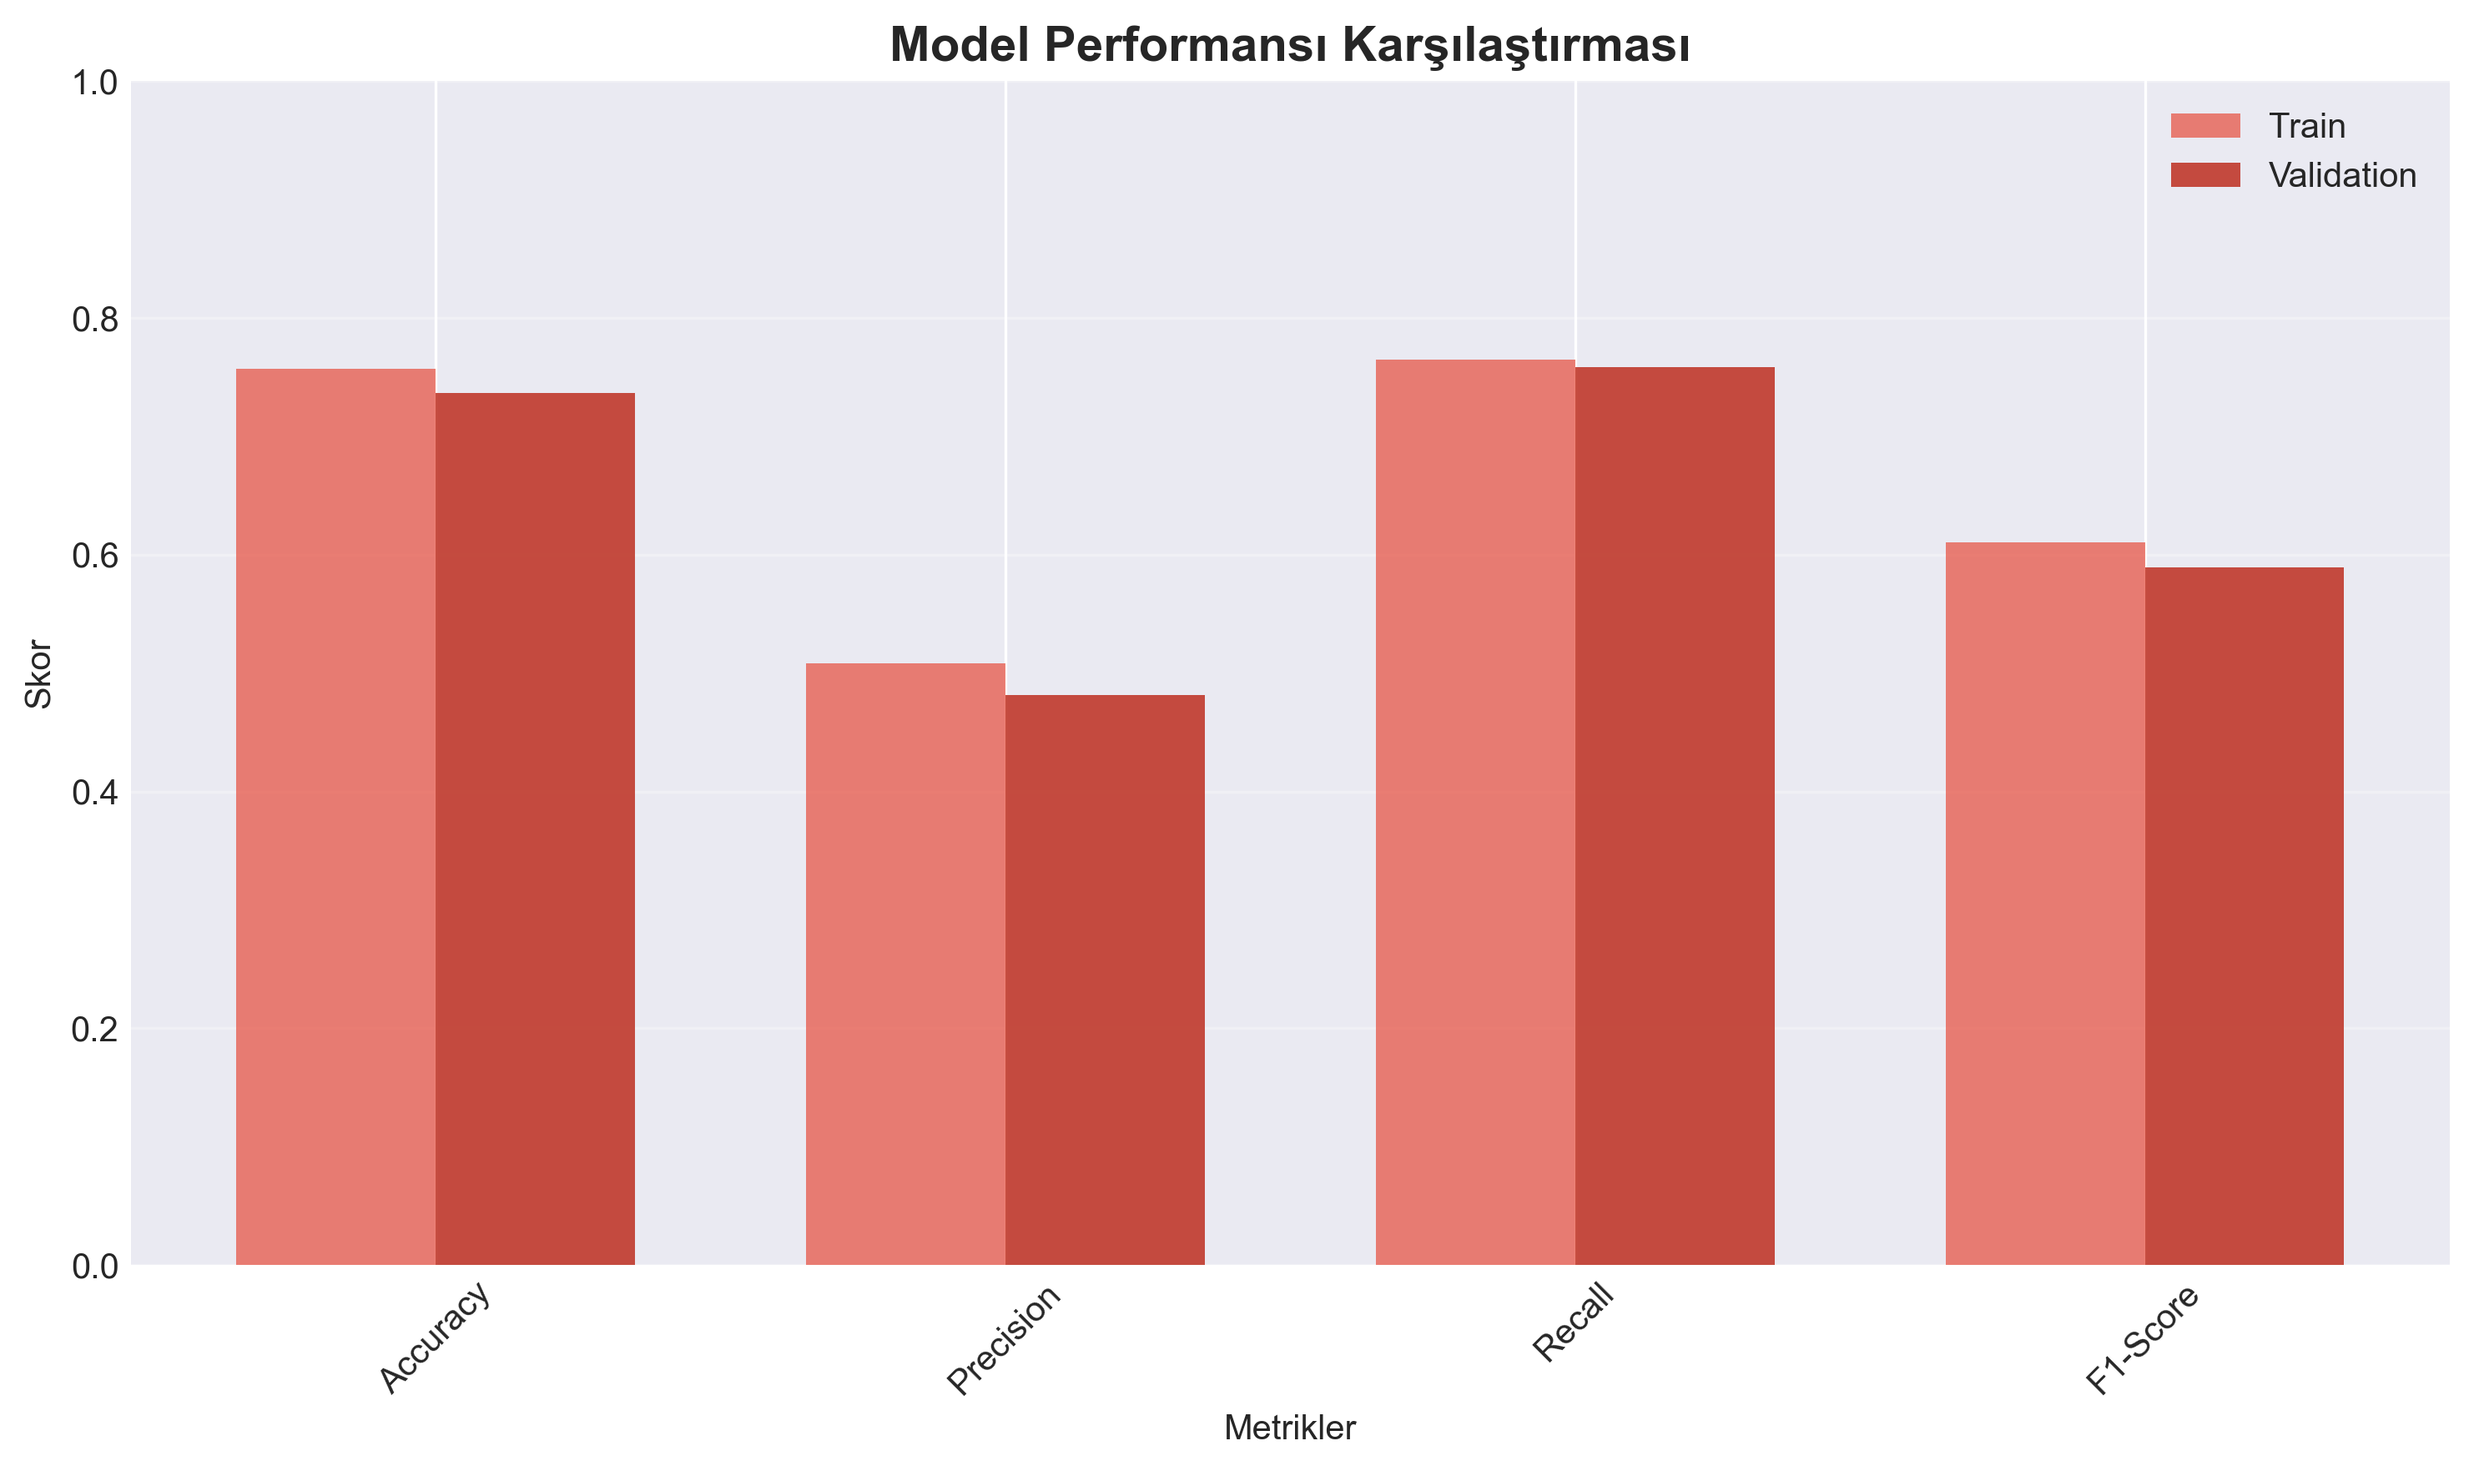
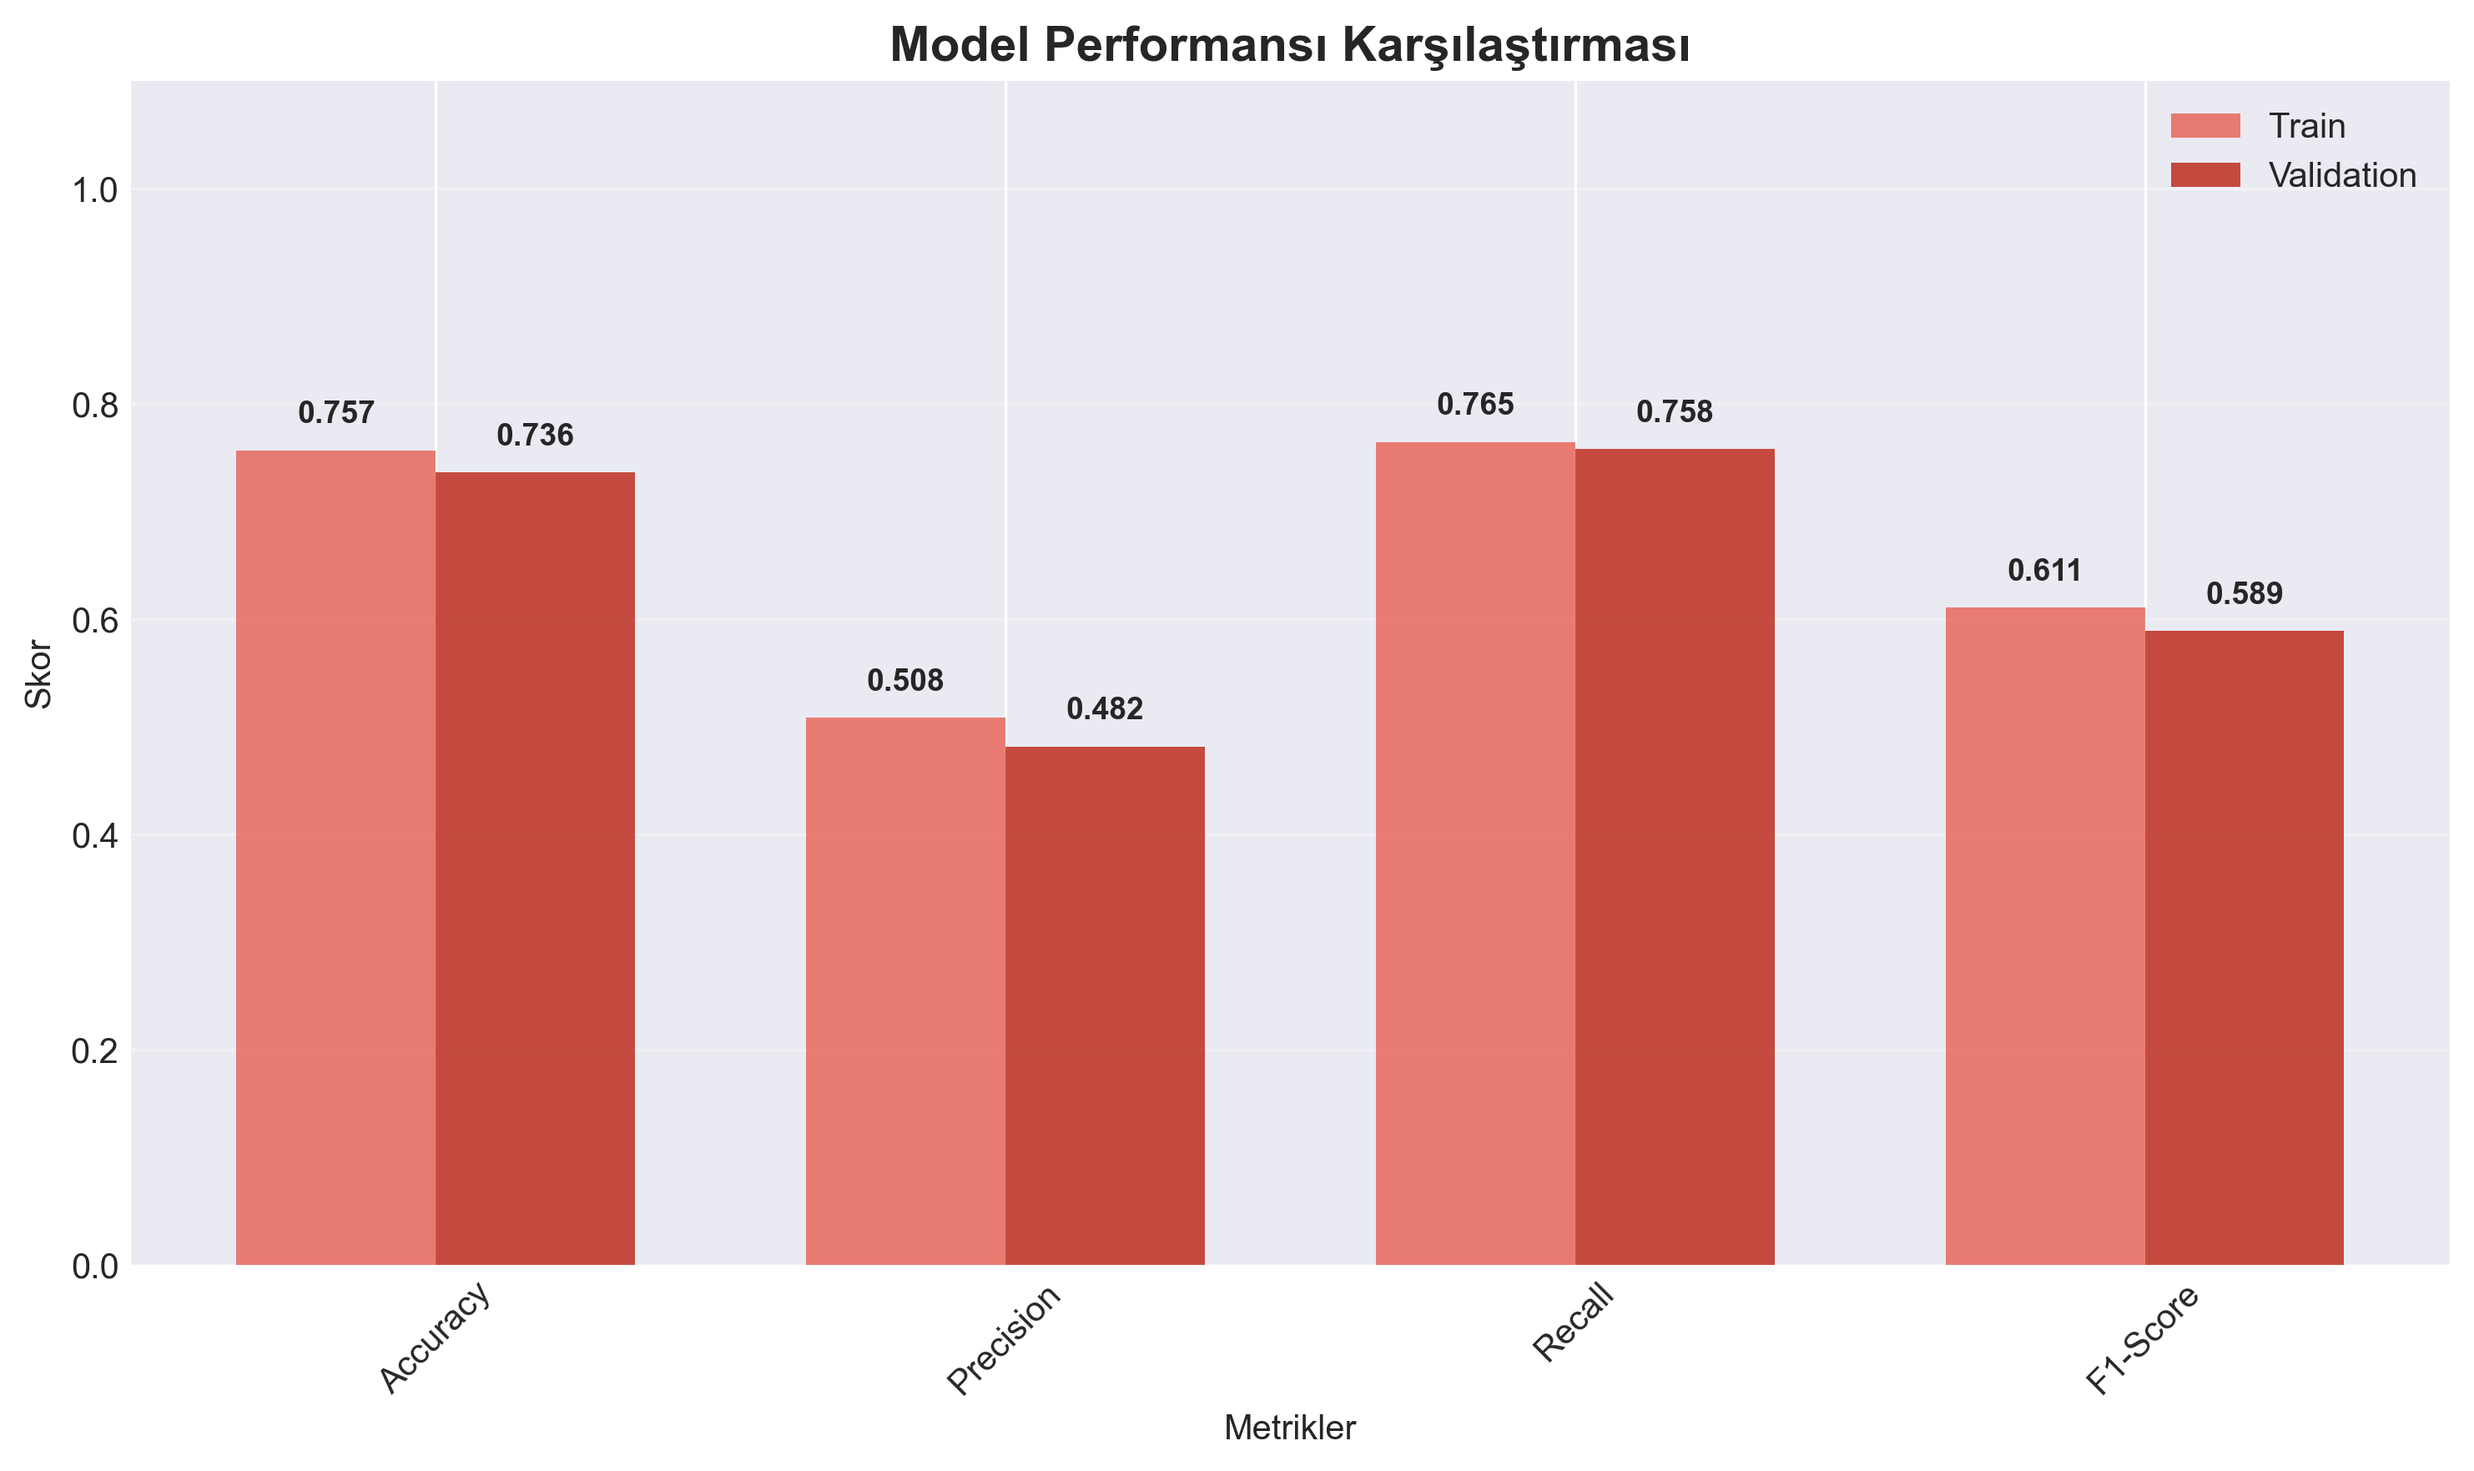
Enhance visualizations by adding value labels to feature importance and performance metrics charts

diff --git a/src/decision_tree_model.py b/src/decision_tree_model.py
@@ -263,10 +263,14 @@ plt.xlabel('Tahmin')
 # 2. Feature Importance
 ax2 = plt.subplot(2, 3, 2)
 top_features = feature_importance.head(10)
-plt.barh(range(len(top_features)), top_features['Importance'], color='#c0392b', alpha=0.7)
+bars = plt.barh(range(len(top_features)), top_features['Importance'], color='#c0392b', alpha=0.7)
 plt.yticks(range(len(top_features)), top_features['Feature'])
 plt.xlabel('Importance')
 plt.title('Top 10 Önemli Özellikler', fontsize=14, fontweight='bold')
+# Değerleri çubukların üzerine ekle
+for i, (idx, row) in enumerate(top_features.iterrows()):
+    plt.text(row['Importance'], i, f' {row["Importance"]:.4f}', 
+             va='center', fontsize=9, fontweight='bold')
 plt.gca().invert_yaxis()
 
 # 3. ROC Curve
@@ -305,14 +309,18 @@ metrics_val = [
 ]
 x = np.arange(4)
 width = 0.35
-plt.bar(x - width/2, metrics_train, width, label='Train', color='#e74c3c', alpha=0.7)
-plt.bar(x + width/2, metrics_val, width, label='Validation', color='#c0392b', alpha=0.9)
+bars1 = plt.bar(x - width/2, metrics_train, width, label='Train', color='#e74c3c', alpha=0.7)
+bars2 = plt.bar(x + width/2, metrics_val, width, label='Validation', color='#c0392b', alpha=0.9)
+# Değerleri çubukların üzerine ekle
+for i, (v1, v2) in enumerate(zip(metrics_train, metrics_val)):
+    plt.text(i - width/2, v1 + 0.02, f'{v1:.3f}', ha='center', va='bottom', fontsize=8, fontweight='bold')
+    plt.text(i + width/2, v2 + 0.02, f'{v2:.3f}', ha='center', va='bottom', fontsize=8, fontweight='bold')
 plt.xlabel('Metrikler')
 plt.ylabel('Skor')
 plt.title('Model Performansı Karşılaştırması', fontsize=14, fontweight='bold')
 plt.xticks(x, ['Accuracy', 'Precision', 'Recall', 'F1-Score'], rotation=45)
 plt.legend()
-plt.ylim([0, 1])
+plt.ylim([0, 1.1])
 plt.grid(True, alpha=0.3, axis='y')
 
 # 6. Decision Tree yapısını göster (basitleştirilmiş)
@@ -351,10 +359,14 @@ print("  ✓ Confusion Matrix kaydedildi")
 # 2. Feature Importance - Ayrı
 fig2 = plt.figure(figsize=(10, 8))
 top_features = feature_importance.head(10)
-plt.barh(range(len(top_features)), top_features['Importance'], color='#c0392b', alpha=0.7)
+bars = plt.barh(range(len(top_features)), top_features['Importance'], color='#c0392b', alpha=0.7)
 plt.yticks(range(len(top_features)), top_features['Feature'])
 plt.xlabel('Importance')
 plt.title('Top 10 Önemli Özellikler', fontsize=14, fontweight='bold')
+# Değerleri çubukların üzerine ekle
+for i, (idx, row) in enumerate(top_features.iterrows()):
+    plt.text(row['Importance'], i, f' {row["Importance"]:.4f}', 
+             va='center', fontsize=10, fontweight='bold')
 plt.gca().invert_yaxis()
 plt.tight_layout()
 plt.savefig('outputs/dt_feature_importance.png', dpi=300, bbox_inches='tight')
@@ -405,14 +417,18 @@ metrics_val = [
 ]
 x = np.arange(4)
 width = 0.35
-plt.bar(x - width/2, metrics_train, width, label='Train', color='#e74c3c', alpha=0.7)
-plt.bar(x + width/2, metrics_val, width, label='Validation', color='#c0392b', alpha=0.9)
+bars1 = plt.bar(x - width/2, metrics_train, width, label='Train', color='#e74c3c', alpha=0.7)
+bars2 = plt.bar(x + width/2, metrics_val, width, label='Validation', color='#c0392b', alpha=0.9)
+# Değerleri çubukların üzerine ekle
+for i, (v1, v2) in enumerate(zip(metrics_train, metrics_val)):
+    plt.text(i - width/2, v1 + 0.02, f'{v1:.3f}', ha='center', va='bottom', fontsize=9, fontweight='bold')
+    plt.text(i + width/2, v2 + 0.02, f'{v2:.3f}', ha='center', va='bottom', fontsize=9, fontweight='bold')
 plt.xlabel('Metrikler')
 plt.ylabel('Skor')
 plt.title('Model Performansı Karşılaştırması', fontsize=14, fontweight='bold')
 plt.xticks(x, ['Accuracy', 'Precision', 'Recall', 'F1-Score'], rotation=45)
 plt.legend()
-plt.ylim([0, 1])
+plt.ylim([0, 1.1])
 plt.grid(True, alpha=0.3, axis='y')
 plt.tight_layout()
 plt.savefig('outputs/dt_performance_metrics.png', dpi=300, bbox_inches='tight')
